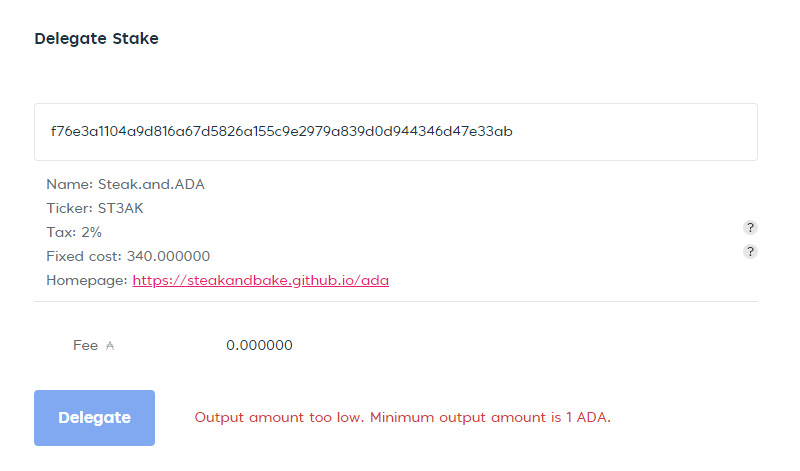
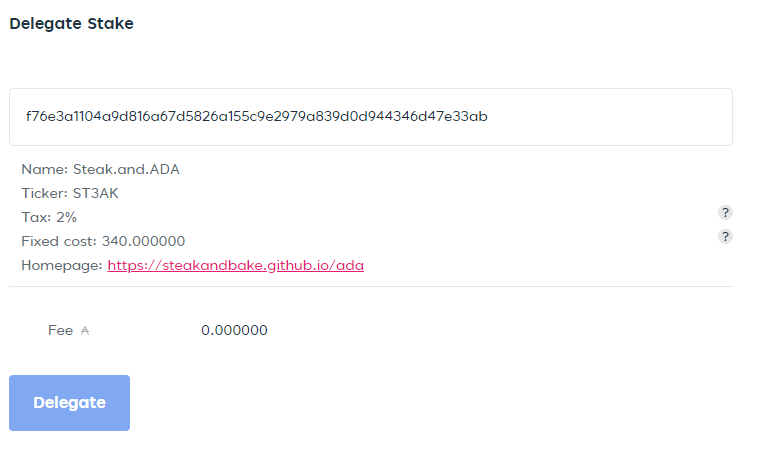
Trezor tutorial

diff --git a/_includes/header.html b/_includes/header.html
@@ -11,6 +11,9 @@
 					<div id="menu">
 						<ul>
 							<li><a href="#">Home</a></li>
+							<li><a href="/ada/2020/07/29/HowToStakeAdaLite.html" target="_blank">Learn to Stake with Ledger Nano S or X</a></li>
+							<li><a href="/ada/2020/07/29/How-To-Stake-Ada-Lite-Trezor-Model-T.html" target="_blank">Learn to Stake with Trezor Model T</a></li>
+							<li><a href="/ada/2020/07/28/HowToStakeDaedalus.html">Learn to Stake with Daedalus</a></li>
 							<li><a href="https://pooltool.io/pool/f76e3a1104a9d816a67d5826a155c9e2979a839d0d944346d47e33ab/blocks" target="_blank">Visit us on pooltool</a></li>
 							<li><a href="https://steakandbake.github.io" target="_blank">Tezos Baking Sister Site</a></li>
 							<li><a href="" target="">Ethereum Sister Site, Coming Soon</a></li>

diff --git a/_includes/section-two.html b/_includes/section-two.html
@@ -1,6 +1,6 @@
 <section id="two" class="wrapper alt style2">
 
-	{% for post in site.posts limit:site.tiles-count offset:2 %}{% if site.tiles-source == 'posts' %}
+	{% for post in site.posts limit:site.tiles-count offset:3 %}{% if site.tiles-source == 'posts' %}
 	<section class="spotlight">
 		<div class="image">{% if post.image %}<img src="{% if site.featured-image-source %}{{ post.image | prepend: site.featured-image-source | absolute_url }}{% else %}{{ "" | absolute_url }}/assets/images/{{ post.image }}{% endif %}" alt="" />{% endif %}</div>
 		<div class="content">

diff --git a/_posts/2020-07-29-How-To-Stake-Ada-Lite-Trezor-Model-T.md b/_posts/2020-07-29-How-To-Stake-Ada-Lite-Trezor-Model-T.md
@@ -1,30 +1,30 @@
 ---
 layout: post
-title: Staking with Ledger Nano S/X
+title: Staking with Trezor Model T
 description: Learn how to with adalite.io
-image: pic07.jpg
+image: pic08.jpg
 ---
 
-## Staking with Ledger Nano S/X and AdaLite.io
+## Staking with Trezor Model T and AdaLite.io
 
 Since the dawn of Cardano entering the the Shelley era, you can now delegate your ADA coins to a stake pool. This is known as staking where you earn new ADA as staking rewards. This guide is primarily for ada holders who wish to delegate their ada to a stake pool, but are not sure about where to start.
 
 ------------
 
-### Update with Ledger Live
+### Update Firmware
 
 <section>
 	<div class="table-wrapper">
 		<table>
 			<tbody>
 				<tr>
-					<td>1) Connect your Ledger Nano, enter PIN and open Ledger Live</td>
+					<td>1) Plug in your Trezor, enter PIN and visit <a href="https://wallet.trezor.io/">Trezor.io Wallet</a> or use your bookmarked Trezor site.</td>
 				</tr>
 				<tr>
-					<td>2) Click Manager and then upgrade your firmware to version 1.6 or greater.</td>
+					<td>2) The website will prompt you to upgrade your firmware to <a href="https://blog.trezor.io/firmware-updates-for-trezor-model-t-version-2-3-2-and-trezor-model-one-version-1-9-2-f4f9c0f1ed7c">version 2.3.2</a> or greater.</td>
 				</tr>
 				<tr>
-					<td>3) Update the Cardano ADA app to version 2.0.3 or greater.</td>
+					<td>3) Follow the update instructions on screen. Unplug, swipe screen, replug and confirm.</td>
 				</tr>
 			</tbody>
 		</table>
@@ -42,24 +42,22 @@ Since the dawn of Cardano entering the the Shelley era, you can now delegate you
 					<td>1) Visit <a href="https://adalite.io">adalite.io</a></td>
 				</tr>
 				<tr>
-					<td>2) Click "Continue to ADALite"</td>
+					<td>2) Click "Continue to ADALite".</td>
 				</tr>
 				<tr>
-					<td>3) Click "Hardware Wallet"<br>
+					<td>3) Click "Hardware Wallet".<br>
 
 <img src="/ada/assets/images/al-ledger-intro.png">
 </td>
 				</tr>
 				<tr>
-					<td>4) Click "Unlock with Ledger" button<br>
-
-<img src="/ada/assets/images/al-ledger-unlock.png"></td>
+					<td>4) Click "Unlock with Trezor" button.<br><img src="/ada/assets/images/al-trez-unlock.png"></td>
 				</tr>
 				<tr>
-					<td>5) On your Ledger wallet, confirm exporting the public key. This happens twice and needs two clicks.</td>
+					<td>5) On the adalite website, allow adalite.io to read public keys from your Trezor device. Click "Allow once for this session". Then click "Export".<br><img src="/ada/assets/images/al-trez-allow.png"></td>
 				</tr>
 				<tr>
-					<td>6) If you previously had ADA before Shelley, you need to convert your balance to a Shelley Wallet. Click "Convert to stakable". Next, review and click "Confirm Transaction" and confirm transaction on your Ledger Nano.</td>
+					<td>6) If you previously had ADA before Shelley, you need to convert your balance to a Shelley Wallet. Click "Convert to stakable". Next, review and click "Confirm Transaction" and confirm transaction on your Trezor.</td>
 				</tr>				
 				<tr>
 					<td>7) With a stakable balance, you can now choose a stake pool.</td>
@@ -73,7 +71,7 @@ Our pool ID is <code>f76e3a1104a9d816a67d5826a155c9e2979a839d0d944346d47e33ab</c
 <img src="/ada/assets/images/al-ledger-delegate-section.png"></td>
 				</tr>
 				<tr>
-					<td>9) Review the delegation, click "Delegate" and confirm transaction on your Ledger Nano.</td>
+					<td>9) Review the delegation, click "Delegate" and confirm transaction on your Trezor.</td>
 				</tr>						
 			</tbody>
 		</table>
